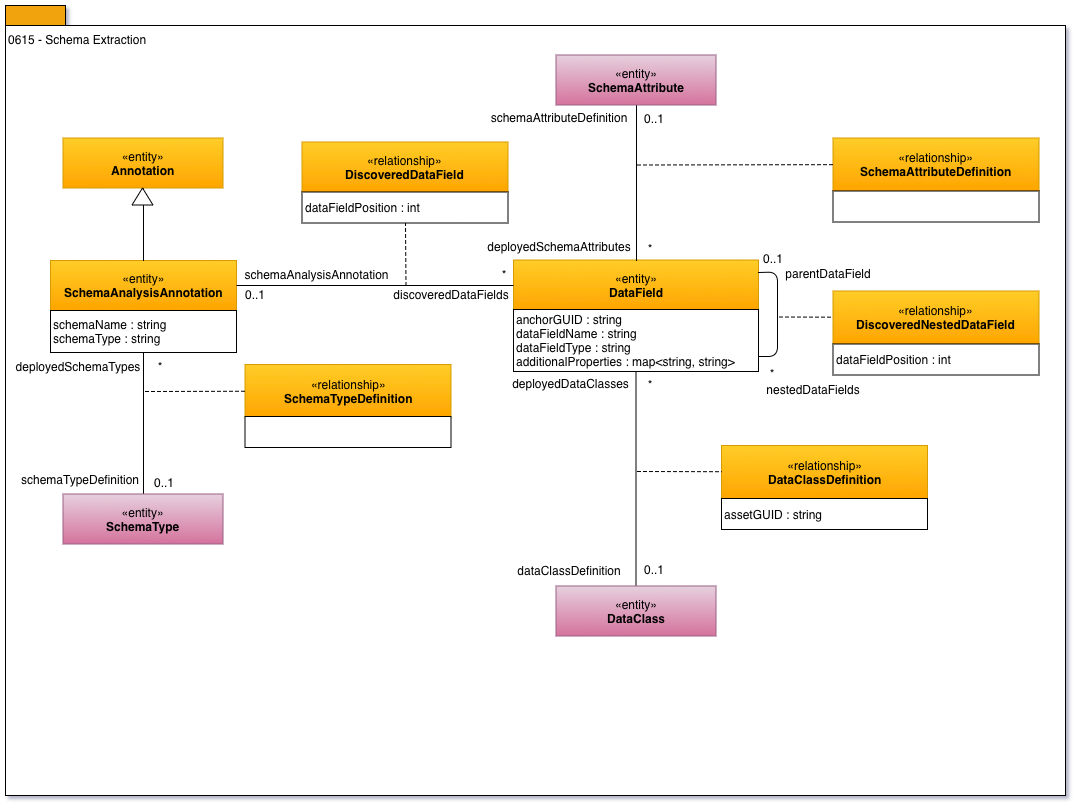
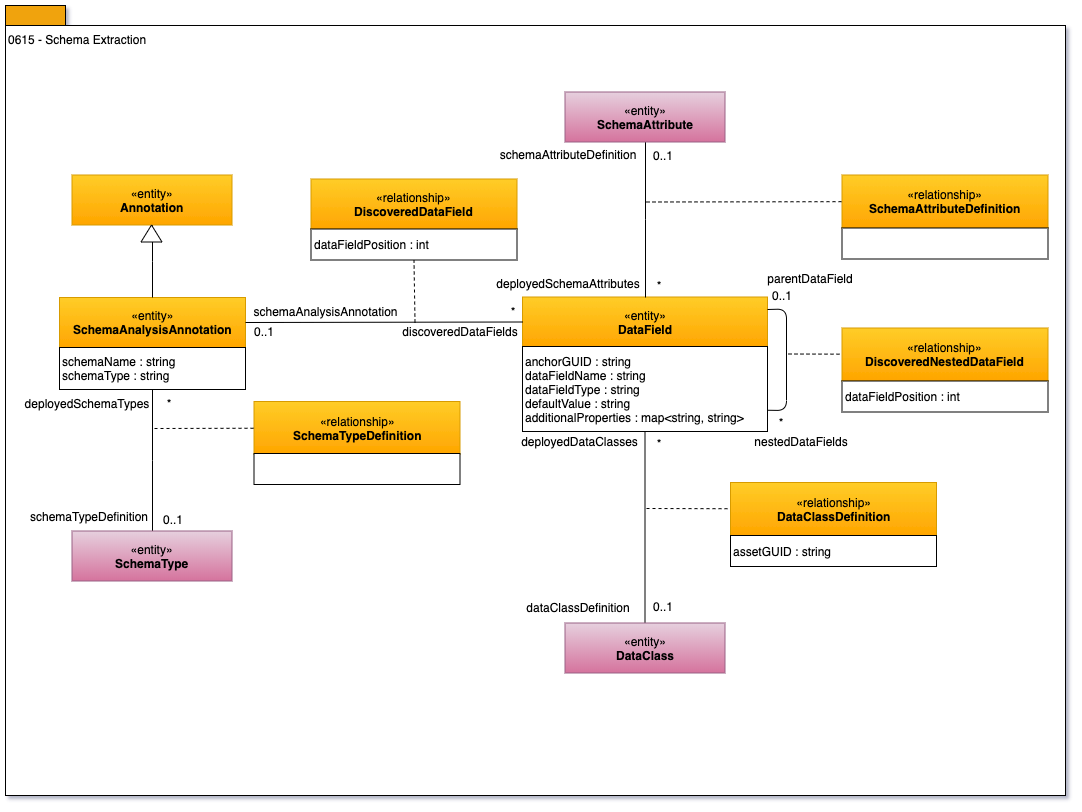
Add defaultValue (#1092)

Changed region(s): [[0.0, 0.0616, 0.976, 0.8313], [0.0305, 0.585, 0.2135, 0.7389]]

diff --git a/open-metadata-resources/open-metadata-archives/open-metadata-types/src/main/java/org/odpi/openmetadata/opentypes/OpenMetadataTypesArchive.java b/open-metadata-resources/open-metadata-archives/open-metadata-types/src/main/java/org/odpi/openmetadata/opentypes/OpenMetadataTypesArchive.java
@@ -23691,12 +23691,15 @@ public class OpenMetadataTypesArchive
         final String attribute2Name            = "dataFieldType";
         final String attribute2Description     = "Type name for the data field.";
         final String attribute2DescriptionGUID = null;
-        final String attribute3Name            = "additionalProperties";
-        final String attribute3Description     = "Additional properties discovered during the analysis.";
+        final String attribute3Name            = "defaultValue";
+        final String attribute3Description     = "Default value that is added to the field if no value is specified.";
         final String attribute3DescriptionGUID = null;
-        final String attribute4Name            = "anchorGUID";
-        final String attribute4Description     = "Optional identifier of the asset that this data field is indirectly connected to.";
+        final String attribute4Name            = "additionalProperties";
+        final String attribute4Description     = "Additional properties discovered during the analysis.";
         final String attribute4DescriptionGUID = null;
+        final String attribute5Name            = "anchorGUID";
+        final String attribute5Description     = "Optional identifier of the asset that this data field is indirectly connected to.";
+        final String attribute5DescriptionGUID = null;
 
         property = archiveHelper.getStringTypeDefAttribute(attribute1Name,
                                                            attribute1Description,
@@ -23706,13 +23709,17 @@ public class OpenMetadataTypesArchive
                                                            attribute2Description,
                                                            attribute2DescriptionGUID);
         properties.add(property);
-        property = archiveHelper.getMapStringStringTypeDefAttribute(attribute3Name,
-                                                                    attribute3Description,
-                                                                    attribute3DescriptionGUID);
+        property = archiveHelper.getStringTypeDefAttribute(attribute3Name,
+                                                           attribute3Description,
+                                                           attribute3DescriptionGUID);
         properties.add(property);
-        property = archiveHelper.getStringTypeDefAttribute(attribute4Name,
-                                                           attribute4Description,
-                                                           attribute4DescriptionGUID);
+        property = archiveHelper.getMapStringStringTypeDefAttribute(attribute4Name,
+                                                                    attribute4Description,
+                                                                    attribute4DescriptionGUID);
+        properties.add(property);
+        property = archiveHelper.getStringTypeDefAttribute(attribute5Name,
+                                                           attribute5Description,
+                                                           attribute5DescriptionGUID);
         properties.add(property);
 
         entityDef.setPropertiesDefinition(properties);
